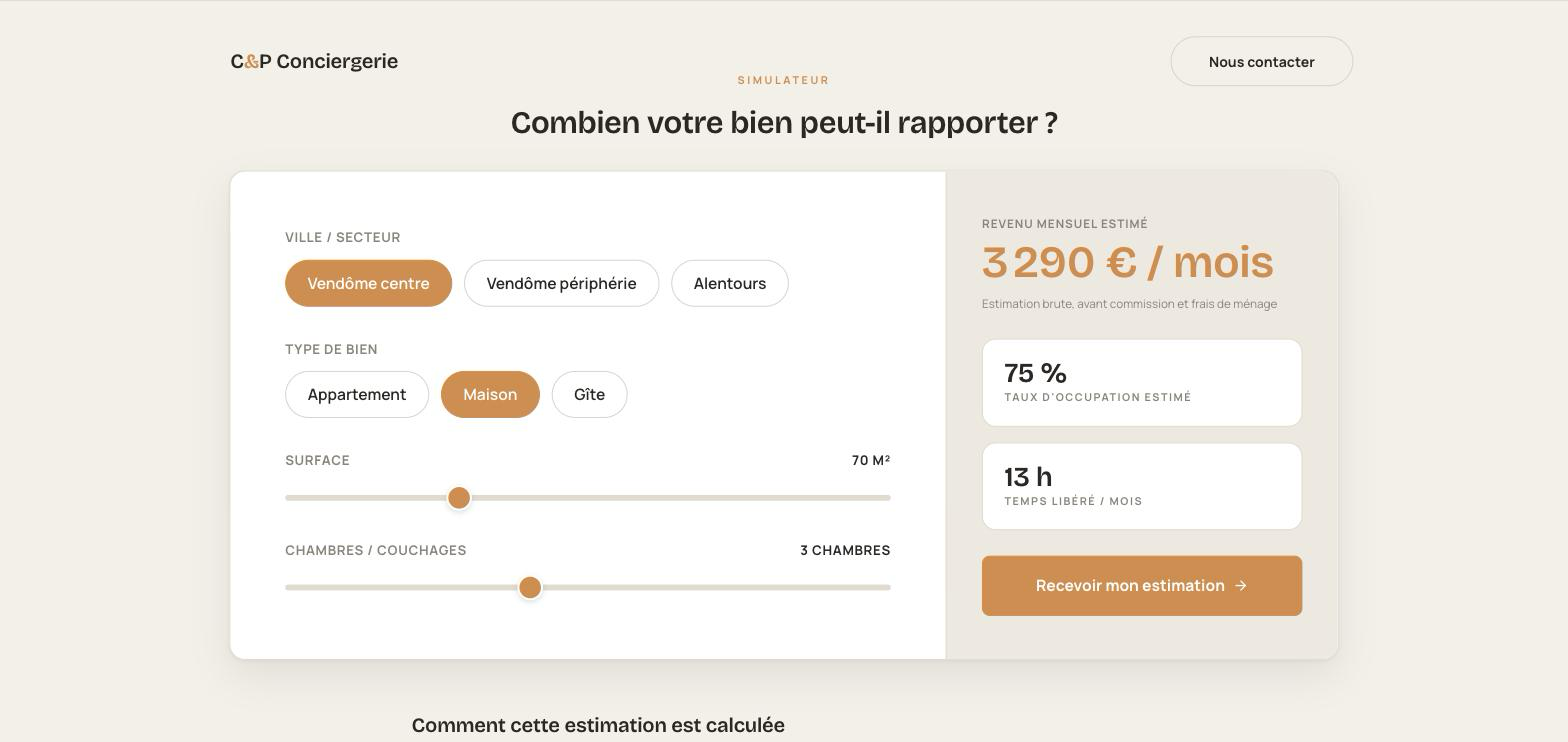
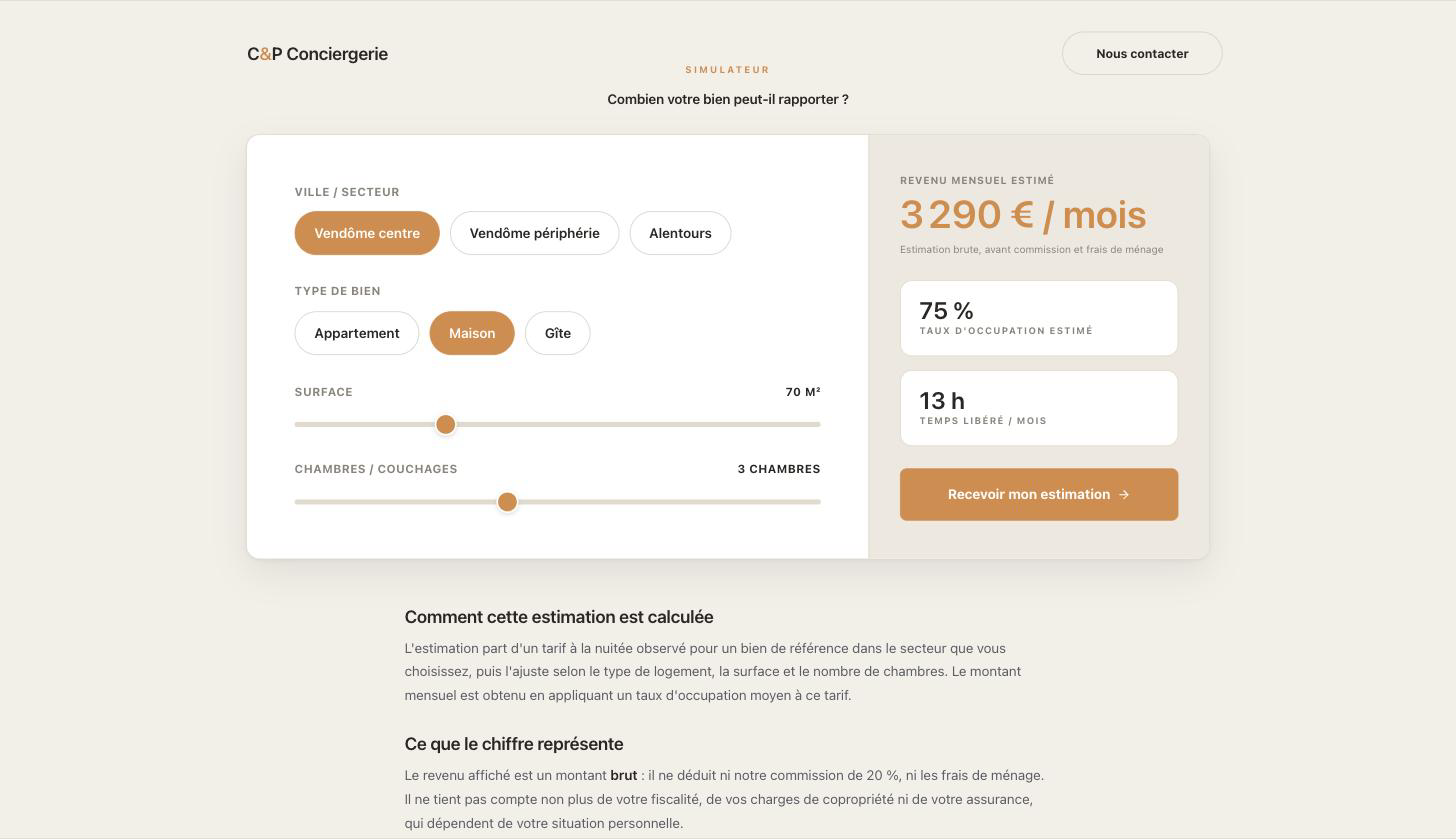
Rewrite the C&P Conciergerie case study for the live V2 platform
The page still described the Eleventy site as what was live and the
Next.js rebuild as "in development", with an owner-facing dashboard that
was never built. Both apps have been live since September: the site at
cp-conciergerie.com and an internal panel at admin.cp-conciergerie.com.

Reframe the case study around the two shipped apps. The overview now runs
V1 to V2 and says what forced the rebuild, which was that every lead
landed in an inbox nobody could see the state of. Split the features into
a public-site section (simulator, lead capture, structured data, the
lazy-loaded error reporter) and an operations-panel section (pipeline,
two-way email, the DMARC check on inbound senders, daily-use details).

Correct the stack: Turborepo was listed but is not used, it is pnpm
workspaces. Drop the dynamic pricing calendar from the card, which is a
service the business sells rather than a feature of the site. Describe
the panel as the internal tool it is, not a client dashboard.

Replace the four V1 screenshots with six current ones. Site shots come
from the live homepage and simulator; panel shots use seeded demo data
from the dev database, so no client information appears.

diff --git a/src/app/projects/cp-conciergerie/page.tsx b/src/app/projects/cp-conciergerie/page.tsx
@@ -4,7 +4,7 @@ import Link from "next/link";
 
 export const metadata = {
     title: "C&P Conciergerie | Charles Bébin",
-    description: "A marketing website and revenue simulator for an Airbnb & Booking property management concierge in Vendôme, France.",
+    description: "A public lead-generation site and an internal operations panel for a short-term rental concierge in Vendôme, France.",
 };
 
 export default function CPConciergeriePage() {
@@ -35,11 +35,11 @@ export default function CPConciergeriePage() {
                                     C&amp;P Conciergerie
                                 </h1>
                                 <span className="rounded-full border border-gold/30 bg-gold/10 px-3 py-1 text-sm font-medium text-gold">
-                                    Client Website
+                                    Client Platform
                                 </span>
                             </div>
                             <p className="text-xl font-light text-cream-muted leading-relaxed max-w-2xl">
-                                A marketing and lead-generation website for a short-term rental property management concierge in Vendôme, France, built to convert property owners into clients with a live revenue simulator.
+                                Two products for a short-term rental concierge in Vendôme, France: a public site that turns property owners into leads, and a private panel where the gérants work those leads without leaving the browser.
                             </p>
 
                             <div className="mt-8 flex flex-wrap gap-4">
@@ -54,6 +54,12 @@ export default function CPConciergeriePage() {
                                     </svg>
                                     Visit Website
                                 </a>
+                                <span className="flex items-center gap-2 rounded-lg border border-white/10 px-5 py-2.5 text-sm font-medium text-cream-muted">
+                                    <svg className="h-4 w-4" fill="none" viewBox="0 0 24 24" stroke="currentColor">
+                                        <path strokeLinecap="round" strokeLinejoin="round" strokeWidth={2} d="M12 15v2m-6 4h12a2 2 0 002-2v-6a2 2 0 00-2-2H6a2 2 0 00-2 2v6a2 2 0 002 2zm10-10V7a4 4 0 00-8 0v4h8z" />
+                                    </svg>
+                                    Panel is private
+                                </span>
                             </div>
                         </div>
                     </AnimatedSection>
@@ -65,10 +71,13 @@ export default function CPConciergeriePage() {
                                 <h2 className="font-display text-2xl text-cream">Overview</h2>
                                 <div className="space-y-4 text-cream-muted font-light leading-relaxed">
                                     <p>
-                                        C&amp;P Conciergerie manages Airbnb and Booking.com listings for property owners around Vendôme, in the Loire Valley. Most visitors landing on the site are property owners who are curious but not yet convinced, and the site&apos;s job is to get them there without a phone call.
+                                        C&amp;P Conciergerie manages Airbnb and Booking.com listings for owners around Vendôme, in the Loire Valley. Almost everyone landing on the site is an owner who is curious but not yet convinced, and the site&apos;s job is to get them past that without a phone call.
                                     </p>
                                     <p>
-                                        I built the site with Eleventy for speed, with an <strong>interactive revenue simulator</strong> as the centerpiece: it estimates a property&apos;s monthly income from its location, type, and size. Each service town also gets its own page for local search, and the lead form posts straight to a serverless contact endpoint. I&apos;m now rebuilding it as a Next.js and Appwrite platform, with a dashboard where owners can track their own bookings and revenue.
+                                        The first version was a static Eleventy site built around an <strong>interactive revenue simulator</strong>: estimate what a property earns from its sector, type and size, then ask for a real quote. It worked, and it exposed the actual bottleneck. Every lead it produced landed in an inbox, and nobody could see which ones had been answered.
+                                    </p>
+                                    <p>
+                                        So I rebuilt it as a pnpm monorepo of two Next.js 16 applications sharing a UI package and an error-reporting package over one Appwrite database. <strong>The site</strong> carries the simulator, a four-step lead form and the local SEO surface. <strong>The panel</strong> is the other half: a lead pipeline, a planning view, and a two-way email thread per lead, so a reply from an owner arrives where the work happens instead of in a mailbox nobody shares.
                                     </p>
                                 </div>
                             </div>
@@ -76,16 +85,16 @@ export default function CPConciergeriePage() {
                             <div className="space-y-8 rounded-2xl bg-navy/50 p-6 border border-white/5 h-fit">
                                 <div>
                                     <h3 className="text-sm font-medium text-gold mb-2">Role</h3>
-                                    <p className="text-sm text-cream-muted leading-relaxed">Freelance Web Developer &amp; Designer</p>
+                                    <p className="text-sm text-cream-muted leading-relaxed">Freelance Web Developer &amp; Designer, sole engineer</p>
                                 </div>
                                 <div>
                                     <h3 className="text-sm font-medium text-gold mb-2">Timeline</h3>
-                                    <p className="text-sm text-cream-muted leading-relaxed">2026 — Present</p>
+                                    <p className="text-sm text-cream-muted leading-relaxed">2026 to present. V1 shipped on Eleventy; the V2 platform has been live since September 2026.</p>
                                 </div>
                                 <div>
-                                    <h3 className="text-sm font-medium text-gold mb-2">Technologies</h3>
+                                    <h3 className="text-sm font-medium text-gold mb-2">Stack</h3>
                                     <div className="flex flex-wrap gap-2 mt-3">
-                                        {["Eleventy", "JavaScript", "Vercel", "Sentry"].map(t => (
+                                        {["Next.js 16", "React 19", "TypeScript", "Tailwind CSS 4", "Appwrite", "Resend", "Vercel", "pnpm workspaces"].map(t => (
                                             <span key={t} className="rounded bg-white/5 px-2 py-1 text-xs text-cream-muted">
                                                 {t}
                                             </span>
@@ -93,14 +102,10 @@ export default function CPConciergeriePage() {
                                     </div>
                                 </div>
                                 <div>
-                                    <h3 className="text-sm font-medium text-gold mb-2">V2 (In Development)</h3>
-                                    <div className="flex flex-wrap gap-2 mt-3">
-                                        {["Next.js 16", "Appwrite", "Tailwind CSS 4", "Turborepo"].map(t => (
-                                            <span key={t} className="rounded bg-white/5 px-2 py-1 text-xs text-cream-muted">
-                                                {t}
-                                            </span>
-                                        ))}
-                                    </div>
+                                    <h3 className="text-sm font-medium text-gold mb-2">Shape</h3>
+                                    <p className="text-sm text-cream-muted leading-relaxed">
+                                        Two deployed apps, <span className="text-cream">cp-conciergerie.com</span> and <span className="text-cream">admin.cp-conciergerie.com</span>, over two shared workspace packages. A push to main deploys both.
+                                    </p>
                                 </div>
                             </div>
                         </div>
@@ -108,80 +113,153 @@ export default function CPConciergeriePage() {
                         {/* Screenshots */}
                         <div className="mb-24 space-y-8">
                             <div className="overflow-hidden rounded-2xl bg-navy/30 border border-white/10 group">
-                                <img src="/cp-conciergerie-preview.png" alt="C&P Conciergerie Homepage" className="block w-full h-auto object-contain transition-transform duration-700 group-hover:scale-[1.02]" />
+                                <img src="/cp-conciergerie-preview.png" alt="C&P Conciergerie homepage" className="block w-full h-auto object-contain transition-transform duration-700 group-hover:scale-[1.02]" />
                             </div>
 
                             <div className="grid grid-cols-1 md:grid-cols-2 gap-8">
                                 <div className="overflow-hidden rounded-2xl bg-navy/30 border border-white/10 group">
-                                    <img src="/cp-conciergerie-detail-1.png" alt="C&P Conciergerie Services Section" className="block w-full h-auto object-contain transition-transform duration-700 group-hover:scale-[1.02]" />
+                                    <img src="/cp-conciergerie-detail-1.png" alt="C&P Conciergerie key figures and distribution platforms" className="block w-full h-auto object-contain transition-transform duration-700 group-hover:scale-[1.02]" />
                                 </div>
                                 <div className="overflow-hidden rounded-2xl bg-navy/30 border border-white/10 group">
-                                    <img src="/cp-conciergerie-detail-2.png" alt="C&P Conciergerie Revenue Simulator" className="block w-full h-auto object-contain transition-transform duration-700 group-hover:scale-[1.02]" />
+                                    <img src="/cp-conciergerie-detail-2.png" alt="C&P Conciergerie revenue simulator" className="block w-full h-auto object-contain transition-transform duration-700 group-hover:scale-[1.02]" />
                                 </div>
-                            </div>
-
-                            <div className="overflow-hidden rounded-2xl bg-navy/30 border border-white/10 group">
-                                <img src="/cp-conciergerie-detail-3.png" alt="C&P Conciergerie Dynamic Pricing" className="block w-full h-auto object-contain transition-transform duration-700 group-hover:scale-[1.02]" />
                             </div>
                         </div>
                     </AnimatedSection>
 
-                    {/* Key Features */}
+                    {/* The Public Site */}
                     <AnimatedSection delay={0.3}>
                         <div className="mb-24">
-                            <h2 className="font-display text-2xl text-cream mb-8">Engineering Features</h2>
+                            <h2 className="font-display text-2xl text-cream mb-8">The Public Site</h2>
 
                             <div className="grid gap-6 sm:grid-cols-2">
 
-                                {/* Feature 1 */}
                                 <div className="rounded-2xl border border-white/5 bg-navy/30 p-8 transition-colors hover:bg-navy/50">
                                     <div className="mb-4 inline-flex h-10 w-10 items-center justify-center rounded-lg bg-gold/10 text-gold">
                                         <svg className="h-5 w-5" fill="none" viewBox="0 0 24 24" stroke="currentColor">
                                             <path strokeLinecap="round" strokeLinejoin="round" strokeWidth={2} d="M9 7h6m0 10v-3m-3 3v-6m-3 6v-9m-2 9h10a2 2 0 002-2V7a2 2 0 00-2-2H7a2 2 0 00-2 2v10a2 2 0 002 2z" />
                                         </svg>
                                     </div>
-                                    <h3 className="mb-2 text-lg font-medium text-cream">Live Revenue Simulator</h3>
+                                    <h3 className="mb-2 text-lg font-medium text-cream">Revenue Simulator</h3>
                                     <p className="text-sm font-light text-cream-muted leading-relaxed">
-                                        Built an interactive calculator that estimates monthly rental income in real time as a visitor adjusts property type, location, and room count. Most visitors qualify themselves as leads before they ever pick up the phone.
+                                        Estimates monthly income in real time as the visitor adjusts sector, property type, surface and bedrooms. It states its own limits on the same page: the figure is gross, before the 20 % commission and cleaning. The estimate survives contact with a real quote.
                                     </p>
                                 </div>
 
-                                {/* Feature 2 */}
+                                <div className="rounded-2xl border border-white/5 bg-navy/30 p-8 transition-colors hover:bg-navy/50">
+                                    <div className="mb-4 inline-flex h-10 w-10 items-center justify-center rounded-lg bg-gold/10 text-gold">
+                                        <svg className="h-5 w-5" fill="none" viewBox="0 0 24 24" stroke="currentColor">
+                                            <path strokeLinecap="round" strokeLinejoin="round" strokeWidth={2} d="M9 12h6m-6 4h6m2 5H7a2 2 0 01-2-2V5a2 2 0 012-2h5.586a1 1 0 01.707.293l5.414 5.414a1 1 0 01.293.707V19a2 2 0 01-2 2z" />
+                                        </svg>
+                                    </div>
+                                    <h3 className="mb-2 text-lg font-medium text-cream">Hardened Lead Capture</h3>
+                                    <p className="text-sm font-light text-cream-muted leading-relaxed">
+                                        A four-step wizard posts to a route handler that validates every field server-side, throttles by IP, and answers a honeypot hit with the same success response a real submission gets, so a bot learns nothing to tune against. Firewall rules at the edge cover what a page-level trap cannot.
+                                    </p>
+                                </div>
+
                                 <div className="rounded-2xl border border-white/5 bg-navy/30 p-8 transition-colors hover:bg-navy/50">
                                     <div className="mb-4 inline-flex h-10 w-10 items-center justify-center rounded-lg bg-gold/10 text-gold">
                                         <svg className="h-5 w-5" fill="none" viewBox="0 0 24 24" stroke="currentColor">
                                             <path strokeLinecap="round" strokeLinejoin="round" strokeWidth={2} d="M21 21l-6-6m2-5a7 7 0 11-14 0 7 7 0 0114 0z" />
                                         </svg>
                                     </div>
-                                    <h3 className="mb-2 text-lg font-medium text-cream">Local SEO Architecture</h3>
+                                    <h3 className="mb-2 text-lg font-medium text-cream">Structured for Search and for Assistants</h3>
                                     <p className="text-sm font-light text-cream-muted leading-relaxed">
-                                        Statically generated with Eleventy for near-instant load times, with dedicated pages per service town and a generated sitemap so the site ranks for hyper-local searches across the Vendômois.
+                                        A generated sitemap and robots rules, per-page metadata, and JSON-LD carrying the business, its service area, its breadcrumbs and its FAQ, so a tool asked about notice periods in the Vendômois can quote the answer the site actually wrote instead of guessing from prose.
                                     </p>
                                 </div>
 
-                                {/* Feature 3 */}
                                 <div className="rounded-2xl border border-white/5 bg-navy/30 p-8 transition-colors hover:bg-navy/50">
                                     <div className="mb-4 inline-flex h-10 w-10 items-center justify-center rounded-lg bg-gold/10 text-gold">
                                         <svg className="h-5 w-5" fill="none" viewBox="0 0 24 24" stroke="currentColor">
-                                            <path strokeLinecap="round" strokeLinejoin="round" strokeWidth={2} d="M12 15v2m-6 4h12a2 2 0 002-2v-6a2 2 0 00-2-2H6a2 2 0 00-2 2v6a2 2 0 002 2zm10-10V7a4 4 0 00-8 0v4h8z" />
+                                            <path strokeLinecap="round" strokeLinejoin="round" strokeWidth={2} d="M13 10V3L4 14h7v7l9-11h-7z" />
                                         </svg>
                                     </div>
-                                    <h3 className="mb-2 text-lg font-medium text-cream">Privacy-First Monitoring</h3>
+                                    <h3 className="mb-2 text-lg font-medium text-cream">Error Reporting That Costs Nothing</h3>
                                     <p className="text-sm font-light text-cream-muted leading-relaxed">
-                                        Self-hosted the Sentry error-monitoring bundle instead of a third-party loader script, and built a custom consent flow so analytics only load after explicit visitor opt-in.
+                                        The Sentry SDK is 29 KB gzipped, too much to put on every view of a brochure site. A shared shim buffers errors and only fetches the bundle once one actually happens, then replays what it caught. Analytics stay unloaded until the visitor opts in.
                                     </p>
                                 </div>
 
-                                {/* Feature 4 */}
+                            </div>
+                        </div>
+                    </AnimatedSection>
+
+                    {/* The Operations Panel */}
+                    <AnimatedSection delay={0.35}>
+                        <div className="mb-24">
+                            <h2 className="font-display text-2xl text-cream mb-6">The Operations Panel</h2>
+                            <p className="text-cream-muted font-light leading-relaxed max-w-2xl mb-10">
+                                A second Next.js app at admin.cp-conciergerie.com, behind an Appwrite session. It is not an owner-facing dashboard. It is the tool the gérants run the business from: every lead the site produces, where it stands, what is scheduled, and the whole email thread attached to it.
+                            </p>
+
+                            <div className="mb-12 space-y-8">
+                                <div className="overflow-hidden rounded-2xl bg-navy/30 border border-white/10 group">
+                                    <img src="/cp-conciergerie-panel-1.png" alt="Panel overview: counters, lead funnel and recent activity" className="block w-full h-auto object-contain transition-transform duration-700 group-hover:scale-[1.02]" />
+                                </div>
+
+                                <div className="grid grid-cols-1 md:grid-cols-2 gap-8">
+                                    <div className="overflow-hidden rounded-2xl bg-navy/30 border border-white/10 group">
+                                        <img src="/cp-conciergerie-panel-2.png" alt="Panel leads table with status filters" className="block w-full h-auto object-contain transition-transform duration-700 group-hover:scale-[1.02]" />
+                                    </div>
+                                    <div className="overflow-hidden rounded-2xl bg-navy/30 border border-white/10 group">
+                                        <img src="/cp-conciergerie-panel-3.png" alt="Panel email conversation on a single lead" className="block w-full h-auto object-contain transition-transform duration-700 group-hover:scale-[1.02]" />
+                                    </div>
+                                </div>
+
+                                <p className="text-xs text-cream-muted/70">
+                                    Panel screenshots use seeded demo data. No real client information is shown.
+                                </p>
+                            </div>
+
+                            <div className="grid gap-6 sm:grid-cols-2">
+
                                 <div className="rounded-2xl border border-white/5 bg-navy/30 p-8 transition-colors hover:bg-navy/50">
                                     <div className="mb-4 inline-flex h-10 w-10 items-center justify-center rounded-lg bg-gold/10 text-gold">
                                         <svg className="h-5 w-5" fill="none" viewBox="0 0 24 24" stroke="currentColor">
-                                            <path strokeLinecap="round" strokeLinejoin="round" strokeWidth={2} d="M19 21V5a2 2 0 00-2-2H7a2 2 0 00-2 2v16m14 0h2M5 21h2m0 0h10M9 7h1m-1 4h1m4-4h1m-1 4h1m-5 8v-4h4v4" />
+                                            <path strokeLinecap="round" strokeLinejoin="round" strokeWidth={2} d="M3 4a1 1 0 011-1h16a1 1 0 011 1v2.586a1 1 0 01-.293.707l-6.414 6.414a1 1 0 00-.293.707V17l-4 4v-6.586a1 1 0 00-.293-.707L3.293 7.293A1 1 0 013 6.586V4z" />
                                         </svg>
                                     </div>
-                                    <h3 className="mb-2 text-lg font-medium text-cream">Owner Dashboard (V2)</h3>
+                                    <h3 className="mb-2 text-lg font-medium text-cream">Lead Pipeline</h3>
                                     <p className="text-sm font-light text-cream-muted leading-relaxed">
-                                        Currently architecting a Next.js + Appwrite rebuild as a pnpm monorepo, adding a dedicated owner-facing panel backed by a real database so clients can track their bookings and revenue without calling the office.
+                                        Leads move through nouveau, contacté, qualifié, and converti or perdu. The funnel reads those statuses cumulatively rather than as buckets, so a converted lead still counts as having passed every stage before it, and a lead nobody has looked at counts as work to do, not as a zero.
+                                    </p>
+                                </div>
+
+                                <div className="rounded-2xl border border-white/5 bg-navy/30 p-8 transition-colors hover:bg-navy/50">
+                                    <div className="mb-4 inline-flex h-10 w-10 items-center justify-center rounded-lg bg-gold/10 text-gold">
+                                        <svg className="h-5 w-5" fill="none" viewBox="0 0 24 24" stroke="currentColor">
+                                            <path strokeLinecap="round" strokeLinejoin="round" strokeWidth={2} d="M3 8l7.89 5.26a2 2 0 002.22 0L21 8M5 19h14a2 2 0 002-2V7a2 2 0 00-2-2H5a2 2 0 00-2 2v10a2 2 0 002 2z" />
+                                        </svg>
+                                    </div>
+                                    <h3 className="mb-2 text-lg font-medium text-cream">Two-Way Email, In the Thread</h3>
+                                    <p className="text-sm font-light text-cream-muted leading-relaxed">
+                                        Each lead gets its own reply address. Replies arrive through a Resend inbound webhook, are deduplicated, and are filed against the lead, with quoted history, signatures and long legal footers folded away so the actual message is what you read first.
+                                    </p>
+                                </div>
+
+                                <div className="rounded-2xl border border-white/5 bg-navy/30 p-8 transition-colors hover:bg-navy/50">
+                                    <div className="mb-4 inline-flex h-10 w-10 items-center justify-center rounded-lg bg-gold/10 text-gold">
+                                        <svg className="h-5 w-5" fill="none" viewBox="0 0 24 24" stroke="currentColor">
+                                            <path strokeLinecap="round" strokeLinejoin="round" strokeWidth={2} d="M9 12l2 2 4-4m5.618-4.016A11.955 11.955 0 0112 2.944a11.955 11.955 0 01-8.618 3.04A12.02 12.02 0 003 9c0 5.591 3.824 10.29 9 11.622 5.176-1.332 9-6.031 9-11.622 0-1.042-.133-2.052-.382-3.016z" />
+                                        </svg>
+                                    </div>
+                                    <h3 className="mb-2 text-lg font-medium text-cream">A Sender Has to Prove Who It Is</h3>
+                                    <p className="text-sm font-light text-cream-muted leading-relaxed">
+                                        The inbound webhook is the only endpoint reachable without a session that also writes to the database, so its signature check is the entire security boundary and nothing runs ahead of it. A <code className="text-gold/80">From</code> address is text the sender types, so the receiving server&apos;s DMARC verdict has to pass before it can decide whose thread a message joins.
+                                    </p>
+                                </div>
+
+                                <div className="rounded-2xl border border-white/5 bg-navy/30 p-8 transition-colors hover:bg-navy/50">
+                                    <div className="mb-4 inline-flex h-10 w-10 items-center justify-center rounded-lg bg-gold/10 text-gold">
+                                        <svg className="h-5 w-5" fill="none" viewBox="0 0 24 24" stroke="currentColor">
+                                            <path strokeLinecap="round" strokeLinejoin="round" strokeWidth={2} d="M8 7V3m8 4V3m-9 8h10M5 21h14a2 2 0 002-2V7a2 2 0 00-2-2H5a2 2 0 00-2 2v12a2 2 0 002 2z" />
+                                        </svg>
+                                    </div>
+                                    <h3 className="mb-2 text-lg font-medium text-cream">Built for Daily Use</h3>
+                                    <p className="text-sm font-light text-cream-muted leading-relaxed">
+                                        A planning view for scheduled work, bulk status changes, a command palette that searches leads by name, and loading skeletons shaped like the page they stand in for, so nothing jumps down the screen the moment the figures land.
                                     </p>
                                 </div>
 

diff --git a/src/components/Projects.tsx b/src/components/Projects.tsx
@@ -28,16 +28,16 @@ export default function Projects() {
                                                 C&amp;P Conciergerie
                                             </h3>
                                             <span className="rounded-full border border-gold/30 bg-gold/10 px-2.5 py-0.5 text-xs font-medium text-gold">
-                                                Client Website
+                                                Client Platform
                                             </span>
                                         </div>
 
                                         <p className="text-sm font-medium text-gold/80">
-                                            Eleventy · Vercel · Next.js (v2 in development) · Appwrite
+                                            Next.js 16 · React 19 · Appwrite · Tailwind CSS 4 · Vercel
                                         </p>
 
                                         <p className="text-base font-light leading-relaxed text-cream-muted">
-                                            A marketing and lead-generation website for an Airbnb &amp; Booking property management concierge in Vendôme, France, with a live revenue simulator and a dynamic pricing calendar. Currently rebuilding as a Next.js + Appwrite platform with a dedicated owner dashboard.
+                                            A two-app platform for an Airbnb &amp; Booking property management concierge in Vendôme, France. The public site converts owners with a live revenue simulator; a private operations panel gives the gérants a lead pipeline, a planning view and a two-way email thread on every lead.
                                         </p>
 
                                         <div className="pt-4 flex flex-col sm:flex-row items-start sm:items-center gap-6">
